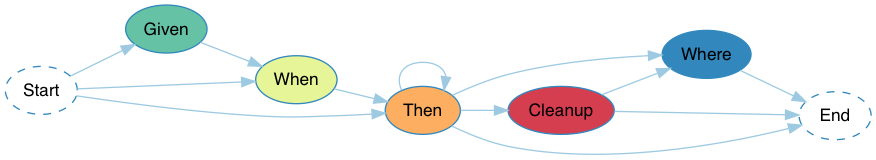
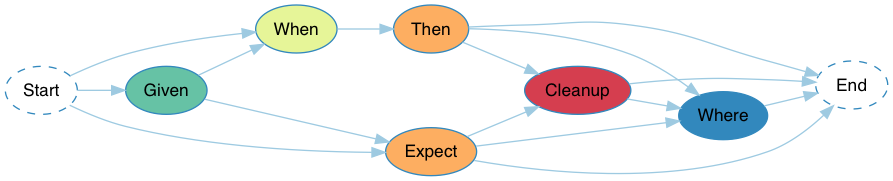
Add Expect block, refined Block graph + docs

diff --git a/test/rspock/ast/test_class_transformation_test.rb b/test/rspock/ast/test_class_transformation_test.rb
@@ -26,7 +26,7 @@ module RSpock
           transform(source)
         end
 
-        assert_equal "Test method must start with one of the following Blocks: #{[:Given, :When, :Then]}", error.message
+        assert_equal "Test method must start with one of the following Blocks: #{[:Given, :When, :Expect]}", error.message
       end
 
       test "first node cannot be regular code" do
@@ -40,7 +40,7 @@ module RSpock
           transform(source)
         end
 
-        assert_equal "Test method must start with one of the following Blocks: #{[:Given, :When, :Then]}", error.message
+        assert_equal "Test method must start with one of the following Blocks: #{[:Given, :When, :Expect]}", error.message
       end
 
       test "first node cannot be a non-starting block" do
@@ -54,23 +54,23 @@ module RSpock
           transform(source)
         end
 
-        assert_equal "Test method must start with one of the following Blocks: #{[:Given, :When, :Then]}", error.message
+        assert_equal "Test method must start with one of the following Blocks: #{[:Given, :When, :Expect]}", error.message
       end
 
-      test "then block can be followed by nothing" do
+      test "expect block can be followed by nothing" do
         source = <<~HEREDOC
           test "Adding \#{a} and \#{b} results in \#{c}" do
-            Then "do stuff"
+            Expect "do stuff"
           end
         HEREDOC
 
         transform(source)
       end
 
-      test "then block cannot be followed by a cleanup block" do
+      test "expect block can be followed by a cleanup block" do
         source = <<~HEREDOC
           test "Adding \#{a} and \#{b} results in \#{c}" do
-            Then "do something"
+            Expect "do something"
             Cleanup "cleanup stuff"
           end
         HEREDOC

diff --git a/lib/rspock/ast/test_class_transformation.rb b/lib/rspock/ast/test_class_transformation.rb
@@ -4,6 +4,7 @@ require 'rspock/ast/start_block'
 require 'rspock/ast/given_block'
 require 'rspock/ast/when_block'
 require 'rspock/ast/then_block'
+require 'rspock/ast/expect_block'
 require 'rspock/ast/cleanup_block'
 require 'rspock/ast/where_block'
 require 'rspock/ast/end_block'
@@ -18,6 +19,7 @@ module RSpock
         Given: RSpock::AST::GivenBlock,
         When: RSpock::AST::WhenBlock,
         Then: RSpock::AST::ThenBlock,
+        Expect: RSpock::AST::ExpectBlock,
         Cleanup: RSpock::AST::CleanupBlock,
         Where: RSpock::AST::WhereBlock,
       }
@@ -83,7 +85,7 @@ module RSpock
           end
 
           children = node.children.reject.each_with_index { |node, index| indexes_to_reject.include?(index) }
-          node.updated(nil, children.map { |node| process(node) })
+          node.updated(nil, children.map { |node| process(node) }.unshift(EXTEND_RSPOCK_DECLARATIVE))
         else
           node.updated(nil, process_all(node))
         end

diff --git a/test/rspock/ast/expect_block_test.rb b/test/rspock/ast/expect_block_test.rb
@@ -1,15 +1,15 @@
 # frozen_string_literal: true
 require 'test_helper'
-require 'rspock/ast/then_block'
+require 'rspock/ast/expect_block'
 
 module RSpock
   module AST
-    class ThenBlockTest < Minitest::Test
+    class ExpectBlockTest < Minitest::Test
       extend RSpock::Declarative
       include RSpock::AST::TransformationHelper
 
       def setup
-        @block = RSpock::AST::ThenBlock.new(nil)
+        @block = RSpock::AST::ExpectBlock.new(nil)
       end
 
       test "#successors returns the correct successors" do
@@ -21,7 +21,7 @@ module RSpock
       end
 
       test "#type is :Then" do
-        assert_equal :Then, @block.type
+        assert_equal :Expect, @block.type
       end
 
       test "#to_children_ast returns transformed children when comparing with == or !=" do

diff --git a/test/rspock/ast/comparison_to_assertion_transformation_test.rb b/test/rspock/ast/comparison_to_assertion_transformation_test.rb
@@ -1,15 +1,15 @@
 # frozen_string_literal: true
 require 'test_helper'
-require 'rspock/ast/then_block_transformation'
+require 'rspock/ast/comparison_to_assertion_transformation'
 
 module RSpock
   module AST
-    class ThenBlockTransformationTest < Minitest::Test
+    class ComparisonToAssertionTransformationTest < Minitest::Test
       extend RSpock::Declarative
       include RSpock::AST::TransformationHelper
 
       def setup
-        @transformation = RSpock::AST::ThenBlockTransformation.new
+        @transformation = RSpock::AST::ComparisonToAssertionTransformation.new
         @equal_ast = s(:send, 1, :==, 2)
         @not_equal_ast = s(:send, 1, :!=, 2)
       end

diff --git a/lib/rspock/ast/comparison_to_assertion_transformation.rb b/lib/rspock/ast/comparison_to_assertion_transformation.rb
@@ -3,13 +3,7 @@ require 'rspock/ast/abstract_transformation'
 
 module RSpock
   module AST
-    class ThenBlockTransformation < AbstractTransformation
-      def process(node)
-        return node unless node.is_a?(Parser::AST::Node)
-
-        super
-      end
-
+    class ComparisonToAssertionTransformation < AbstractTransformation
       def on_send(node)
         if node.children.count == 3 && node.children[1] == :==
           transform_to_assert_equal(node.children[0], node.children[2])

diff --git a/lib/rspock/ast/test_method_transformation.rb b/lib/rspock/ast/test_method_transformation.rb
@@ -134,7 +134,7 @@ module RSpock
         ast = s(:kwbegin,
           s(:ensure,
             s(:begin,
-              *@blocks.select { |block| [:Given, :When, :Then].include?(block.type) }
+              *@blocks.select { |block| [:Given, :When, :Then, :Expect].include?(block.type) }
                 .map { |block| block.to_children_ast }.flatten,
               ),
             *@blocks.select { |block| block.type == :Cleanup }.first&.to_children_ast

diff --git a/lib/rspock/ast/expect_block.rb b/lib/rspock/ast/expect_block.rb
@@ -4,9 +4,9 @@ require 'rspock/ast/comparison_to_assertion_transformation'
 
 module RSpock
   module AST
-    class ThenBlock < Block
+    class ExpectBlock < Block
       def initialize(node)
-        super(:Then, node)
+        super(:Expect, node)
       end
 
       def successors

diff --git a/test/rspock/ast/start_block_test.rb b/test/rspock/ast/start_block_test.rb
@@ -12,7 +12,7 @@ module RSpock
       end
 
       test "#successors returns the correct successors" do
-        assert_equal [:Given, :When, :Then], @block.successors
+        assert_equal [:Given, :When, :Expect], @block.successors
       end
 
       test "#successors is frozen" do

diff --git a/test/rspock/ast/given_block_test.rb b/test/rspock/ast/given_block_test.rb
@@ -12,7 +12,7 @@ module RSpock
       end
 
       test "#successors returns the correct successors" do
-        assert_equal [:When, :Then], @block.successors
+        assert_equal [:When, :Expect], @block.successors
       end
 
       test "#successors is frozen" do

diff --git a/lib/rspock/ast/start_block.rb b/lib/rspock/ast/start_block.rb
@@ -9,7 +9,7 @@ module RSpock
       end
 
       def successors
-        @successors ||= [:Given, :When, :Then].freeze
+        @successors ||= [:Given, :When, :Expect].freeze
       end
     end
   end

diff --git a/lib/rspock/ast/given_block.rb b/lib/rspock/ast/given_block.rb
@@ -9,7 +9,7 @@ module RSpock
       end
 
       def successors
-        @successors ||= [:When, :Then].freeze
+        @successors ||= [:When, :Expect].freeze
       end
     end
   end

diff --git a/README.md b/README.md
@@ -95,13 +95,14 @@ The first and last steps are optional, however the stimulus and response phases 
 
 ### Code Blocks
 
-| Blocks  | Phases   |
-| ------- | -------- |
-| Given   | Setup    |
-| When    | Stimulus |
-| Then    | Response |
-| Cleanup | Cleanup  |
-| Where   | Repeat   |
+| Blocks  | Phases              |
+| ------- | ------------------- |
+| Given   | Setup               |
+| When    | Stimulus            |
+| Then    | Response            |
+| Expect  | Stimulus + Response |
+| Cleanup | Cleanup             |
+| Where   | Repeat              |
 
 RSpock has support for each conceptual phase of a feature method. As such, feature methods are structured into Code Blocks, each representing a phase.
 
@@ -137,6 +138,27 @@ cart.products.first == product
 ```
 
 The Then block describes the response from the stimulus. Any comparison done in the Then block is transformed to assert_equal / refute_equal under the hood. By convention, the LHS operand is considered the actual value, while the RHS operand is considered the expected value.
+
+### Expect Block
+
+The Expect block is useful when expressing the stimulus and the response in one statement is more natural. For example, let's compare two equivalent ways of describing some behaviour:
+
+#### When + Then
+```ruby
+When "Calling #abs on a negative number"
+actual = -2.abs
+
+Then "Value is positive"
+actual == 2
+```
+
+#### Using Expect
+```ruby
+Expect
+-2.abs == 2
+```
+
+A good rule of thumb is using When + Then blocks to describe methods with side-effects and Expect blocks to describe purely functional methods.
 
 #### Cleanup Block
 
